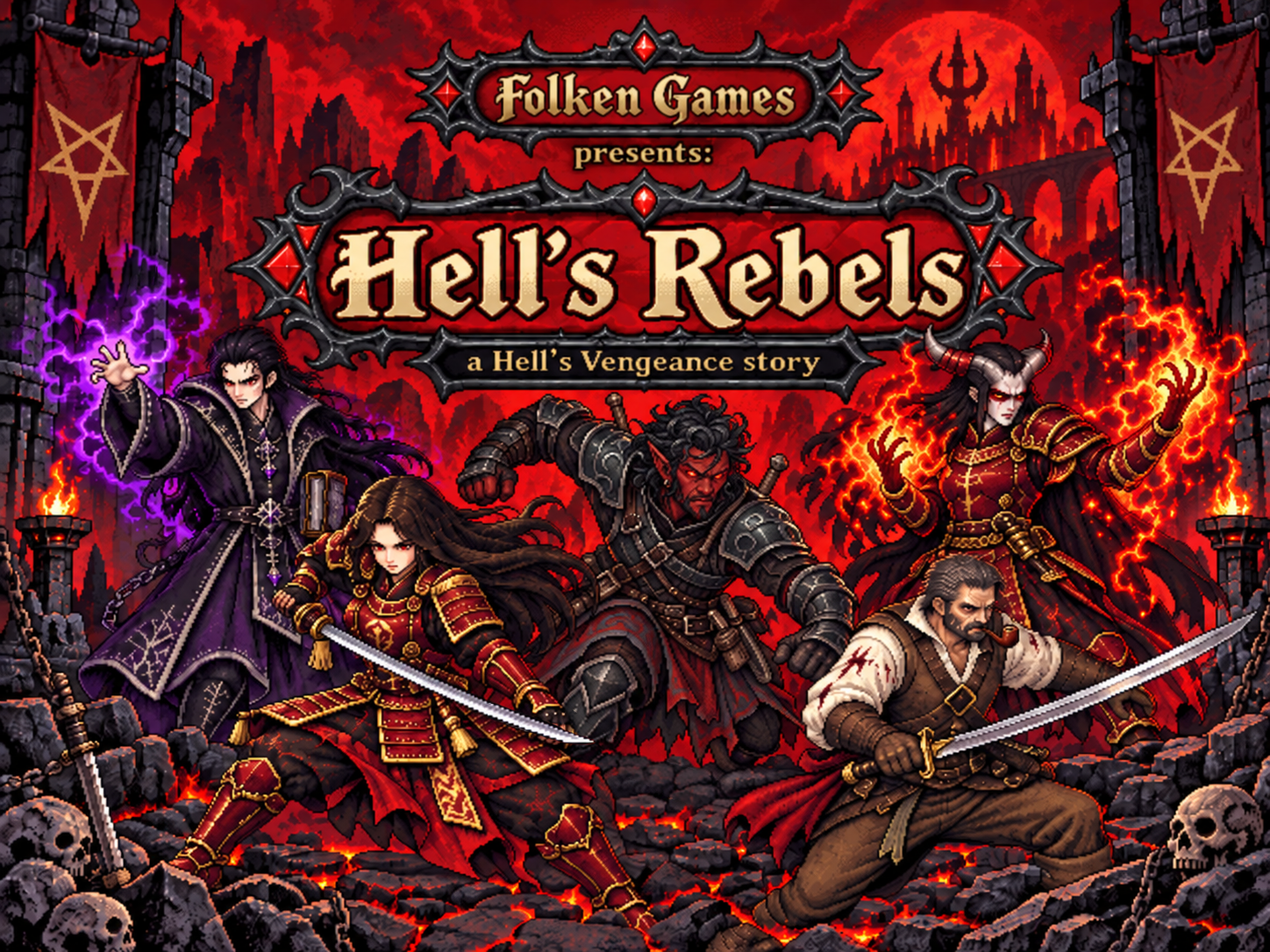
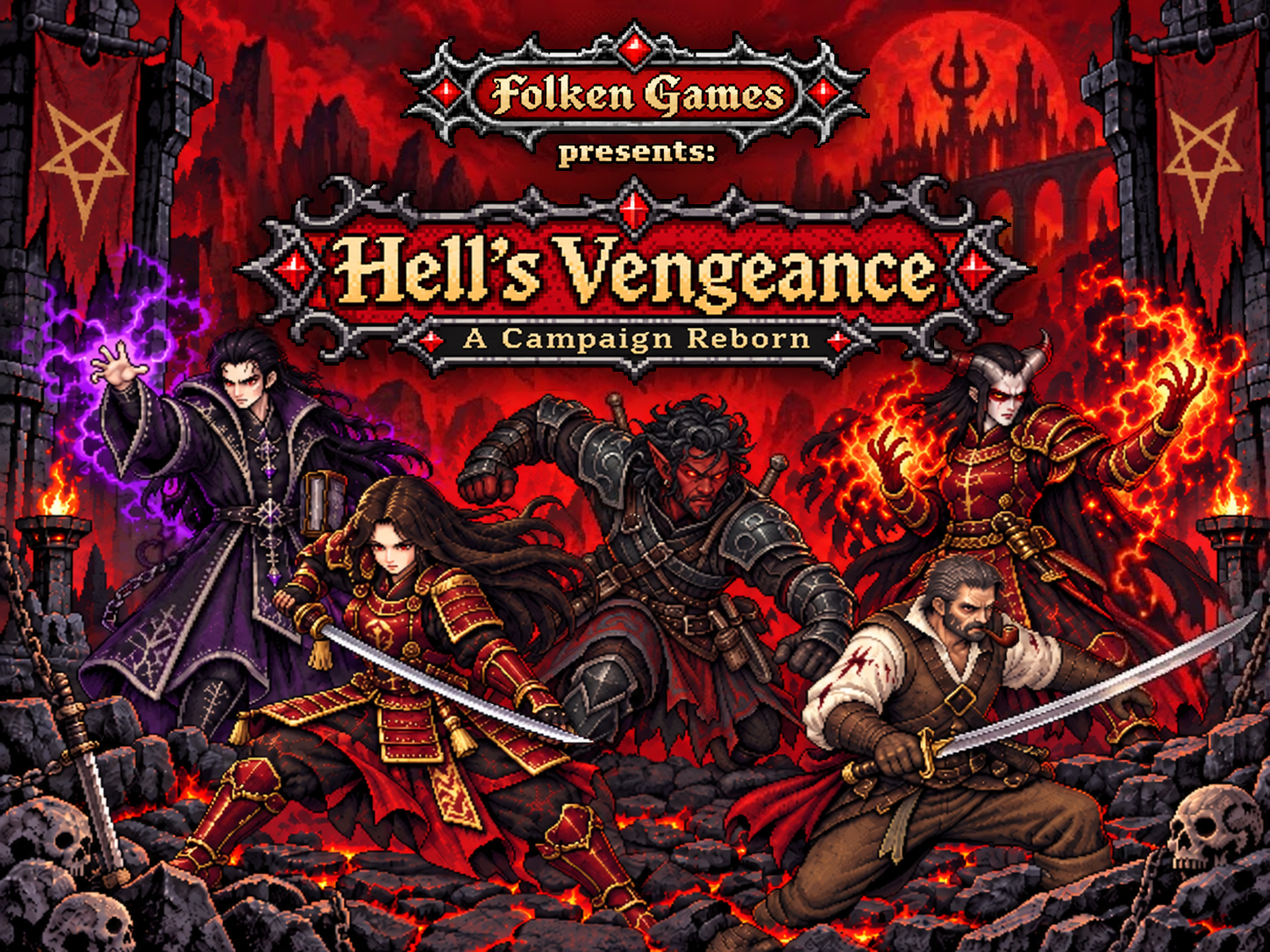
Refresh title screen and animate campaign transitions

diff --git a/index.html b/index.html
@@ -1,4 +1,4 @@
-<!doctype html><html lang="en"><head><meta charset="utf-8"><meta name="viewport" content="width=device-width,initial-scale=1"><title>Hell’s Rebels · Night of Ashes</title>
+<!doctype html><html lang="en"><head><meta charset="utf-8"><meta name="viewport" content="width=device-width,initial-scale=1"><title>Hell’s Vengeance · Night of Ashes</title>
 <script>
  if (new URLSearchParams(location.search).get('handheld') === '1') {
   document.documentElement.classList.add('handheld-display');
@@ -136,7 +136,7 @@ body.inventory-roll #dice-panel{z-index:35}
 #enemy-intents .turn-next{color:#bdb49f;border-bottom:1px solid #6a503d;margin-bottom:.3cqw}
 @keyframes initiative-flash{from{opacity:.15;filter:brightness(1.7)}to{opacity:1;filter:brightness(1)}}
 @media(prefers-reduced-motion:reduce){#initiative-results li{animation:none}}
-</style><link rel="stylesheet" href="art-test/menu-theme.css"><link rel="stylesheet" href="art-test/presentation-polish.css"></head><body><main><header><div><p class="eyebrow">HELL’S REBELS</p><h1 id="location-name">Night of Ashes</h1><p id="objective">Loading the chapter…</p></div><p id="story-section">Prologue · Kintargo</p></header><div class="stage"><canvas id="game" width="640" height="480" tabindex="0" aria-label="Game world. Use arrow keys or WASD to move and E to interact."></canvas><section id="title-screen" aria-label="Hell’s Rebels title screen" hidden><button id="title-push">Push A to Start</button><section id="title-menu" aria-labelledby="title-menu-heading" hidden><h2 id="title-menu-heading">Main menu</h2><p id="title-detail" hidden></p><div id="title-options"></div></section></section><section id="dice-panel" aria-label="Dice rolls" role="status" aria-live="polite" hidden><div id="dice-label"></div><div id="dice-tray" aria-hidden="true"></div><div id="dice-result"></div></section><aside id="quest-task" aria-label="Current task"><span>Current task</span><div id="quest-task-text"></div></aside><div id="prompt" hidden></div><section id="dialog" role="dialog" aria-modal="true" aria-labelledby="speaker" aria-describedby="line" hidden><canvas id="portrait" width="96" height="96" aria-label="Speaker portrait" hidden></canvas><div class="dialog-copy"><div id="speaker"></div><div id="line"></div></div><div id="choices"></div><button id="close">Continue ↵</button></section><aside id="enemy-intents" aria-label="Enemy intentions" role="status" hidden></aside><section id="initiative-reveal" role="dialog" aria-modal="true" aria-labelledby="initiative-heading" hidden><h2 id="initiative-heading">Battle order</h2><p class="initiative-note">D20 + initiative · highest acts first</p><ol id="initiative-results"></ol><p class="initiative-note">Provisional early-campaign modifiers</p><button id="initiative-start">Skip reveal · Enter / E</button></section><section id="battle" aria-label="Combat command dock" hidden><div class="battle-head"><div id="battle-title"></div><select id="combat-target" aria-label="Enemy target"></select><button id="heal-target" title="Cycle healing target (H)">Aid: Freya</button></div><div class="battle-bottom"><div class="battle-dispatch"><div id="battle-message" role="status">Choose a command.</div><div id="combat-log" role="log" aria-label="Last two combat actions"></div></div><div id="actions" aria-label="Combat actions"></div></div></section><section id="intro" aria-label="Choose your character" hidden><div class="intro-heading"><span>HELL’S REBELS</span><h2>Choose your character</h2></div><div class="intro-main"><canvas id="intro-art" width="440" height="540" aria-label="Selected character artwork"></canvas><div class="intro-description"><p id="intro-role"></p><h3 id="intro-name"></h3><p id="intro-bio"></p><p id="intro-ability"></p><button id="intro-start">Accept the mission</button><button id="intro-resume" hidden>Continue checkpoint</button><button id="intro-import">Import save</button></div></div><div id="intro-roster" aria-label="Party characters"></div><p class="intro-help">← → / A D Choose · ↑ ↓ Start/Continue · E Confirm · B Back</p></section><section id="journey" role="dialog" aria-modal="true" aria-labelledby="journey-title" aria-describedby="journey-summary" hidden><div class="journey-card"><p class="eyebrow">HELL’S REBELS · THE JOURNEY</p><h2 id="journey-title"></h2><p id="journey-summary"></p><button id="journey-continue" disabled>Continue ↵</button></div></section><section id="level-up" role="dialog" aria-modal="true" aria-labelledby="level-title" aria-describedby="level-description" hidden><p class="eyebrow">ASH HOUSE · A HARD-EARNED REST</p><h2 id="level-title">The party reaches level 2</h2><p id="level-description">Stronger, steadier, ready for the next assignment.</p><div id="level-rows"></div><p class="level-footnote">Health and skills restored. El Guapo is away.</p><button id="level-continue">Continue ↵</button></section><button id="pause-toggle" aria-label="Pause menu">Menu · B</button><section id="pause-panel" role="dialog" aria-modal="true" aria-labelledby="pause-title" hidden><h2 id="pause-title">Pause</h2><div id="pause-body"><canvas id="pause-portrait" width="160" height="200" aria-label="Character portrait" hidden></canvas><canvas id="pause-plan-map" width="640" height="400" role="img" hidden></canvas><div id="pause-options"></div><div id="pause-details" hidden></div></div><p id="pause-help"></p></section><div id="loading"><p id="loadingText">Gathering the party…</p><button id="load-retry" hidden>Retry loading</button></div></div><div id="party" class="party" aria-label="Party health and conversations"></div><div class="toolbar"><label>Leader <select id="character"><option value="freya">Freya</option><option value="jamal">J’Mal</option><option value="jason">Jason</option><option value="draymus">Draymus</option><option value="guapo">El Guapo</option><option value="reese" disabled>Reese</option></select></label><button id="paths" aria-pressed="false">Show paths</button><button id="retry">Load checkpoint</button><button id="reset">Restart chapter</button><label>Find replay <input id="section-search" type="search" placeholder="Number, scene, or location" autocomplete="off" aria-controls="section-replay" aria-describedby="section-count"></label><label>Replay section <select id="section-replay" aria-label="Section to replay"></select></label><output id="section-count" aria-live="polite"></output><button id="section-go">Go to section</button><button id="section-restore" hidden>Return to prior progress</button><button id="save-export">Export save</button><button id="save-import">Import save</button><button id="save-restore" hidden>Restore previous save</button><input id="save-import-file" type="file" accept=".json,application/json" hidden></div><div class="touch" aria-label="Touch controls"><button data-dir="left" aria-label="Move left">←</button><button data-dir="up" aria-label="Move up">↑</button><button data-dir="down" aria-label="Move down">↓</button><button data-dir="right" aria-label="Move right">→</button><button id="interact">Interact</button></div><p id="status"></p><p id="save-file-status" role="status" aria-live="polite"></p><dialog id="save-import-dialog" aria-labelledby="import-heading"><h2 id="import-heading">Import saved game</h2><p id="import-summary"></p><button id="import-confirm">Import and continue</button><button id="import-cancel">Cancel</button></dialog><footer><span id="save-status"></span><span><a href="Party Sprite Studio.html">Party sprites</a> · <a href="Map Layer Studio.html">Layered map preview</a> · <a href="Longacre Art Studio.html">Future chapter art (spoilers)</a> · <a href="Combat Animation Studio.html">Combat poses</a> · <a href="Political Movement Art Studio.html">Chapter Six art</a> · High detail pixel art chapter study</span></footer></main><script src="art-test/sprite-frames.js"></script><script src="art-test/chapter-npcs.js"></script><script src="art-test/questgiver-models.js"></script><script src="art-test/map-layers.js"></script><script src="art-test/scene-layers.js"></script><script src="art-test/next-npcs.js"></script><script src="art-test/next-chapter.js"></script><script src="art-test/future-npcs.js"></script><script src="art-test/next-arc.js"></script><script src="art-test/progression.js"></script><script src="art-test/inventory.js"></script><script src="art-test/save-files.js"></script><script src="art-test/combat-art-frames.js"></script><script src="art-test/combat-art.js"></script><script src="art-test/combat-idles.js"></script><script src="art-test/quest-guide.js"></script><script src="art-test/last-stand-chapter.js"></script>
+</style><link rel="stylesheet" href="art-test/menu-theme.css"><link rel="stylesheet" href="art-test/presentation-polish.css"></head><body><main><header><div><p class="eyebrow">HELL’S VENGEANCE</p><h1 id="location-name">Night of Ashes</h1><p id="objective">Loading the chapter…</p></div><p id="story-section">Prologue · Kintargo</p></header><div class="stage"><canvas id="game" width="640" height="480" tabindex="0" aria-label="Game world. Use arrow keys or WASD to move and E to interact."></canvas><section id="title-screen" aria-label="Hell’s Vengeance title screen" hidden><button id="title-push">Push A to Start</button><section id="title-menu" aria-labelledby="title-menu-heading" hidden><h2 id="title-menu-heading">Main menu</h2><p id="title-detail" hidden></p><div id="title-options"></div></section></section><section id="dice-panel" aria-label="Dice rolls" role="status" aria-live="polite" hidden><div id="dice-label"></div><div id="dice-tray" aria-hidden="true"></div><div id="dice-result"></div></section><aside id="quest-task" aria-label="Current task"><span>Current task</span><div id="quest-task-text"></div></aside><div id="prompt" hidden></div><section id="dialog" role="dialog" aria-modal="true" aria-labelledby="speaker" aria-describedby="line" hidden><canvas id="portrait" width="96" height="96" aria-label="Speaker portrait" hidden></canvas><div class="dialog-copy"><div id="speaker"></div><div id="line"></div></div><div id="choices"></div><button id="close">Continue ↵</button></section><aside id="enemy-intents" aria-label="Enemy intentions" role="status" hidden></aside><section id="initiative-reveal" role="dialog" aria-modal="true" aria-labelledby="initiative-heading" hidden><h2 id="initiative-heading">Battle order</h2><p class="initiative-note">D20 + initiative · highest acts first</p><ol id="initiative-results"></ol><p class="initiative-note">Provisional early-campaign modifiers</p><button id="initiative-start">Skip reveal · Enter / E</button></section><section id="battle" aria-label="Combat command dock" hidden><div class="battle-head"><div id="battle-title"></div><select id="combat-target" aria-label="Enemy target"></select><button id="heal-target" title="Cycle healing target (H)">Aid: Freya</button></div><div class="battle-bottom"><div class="battle-dispatch"><div id="battle-message" role="status">Choose a command.</div><div id="combat-log" role="log" aria-label="Last two combat actions"></div></div><div id="actions" aria-label="Combat actions"></div></div></section><section id="intro" aria-label="Choose your character" hidden><div class="intro-heading"><span>HELL’S VENGEANCE</span><h2>Choose your character</h2></div><div class="intro-main"><canvas id="intro-art" width="440" height="540" aria-label="Selected character artwork"></canvas><div class="intro-description"><p id="intro-role"></p><h3 id="intro-name"></h3><p id="intro-bio"></p><p id="intro-ability"></p><button id="intro-start">Accept the mission</button><button id="intro-resume" hidden>Continue checkpoint</button><button id="intro-import">Import save</button></div></div><div id="intro-roster" aria-label="Party characters"></div><p class="intro-help">← → / A D Choose · ↑ ↓ Start/Continue · E Confirm · B Back</p></section><section id="journey" role="dialog" aria-modal="true" aria-labelledby="journey-title" aria-describedby="journey-summary" hidden><div class="journey-card"><p class="eyebrow">HELL’S VENGEANCE · THE JOURNEY</p><h2 id="journey-title"></h2><p id="journey-summary"></p><button id="journey-continue" disabled>Continue ↵</button></div></section><section id="level-up" role="dialog" aria-modal="true" aria-labelledby="level-title" aria-describedby="level-description" hidden><p class="eyebrow">ASH HOUSE · A HARD-EARNED REST</p><h2 id="level-title">The party reaches level 2</h2><p id="level-description">Stronger, steadier, ready for the next assignment.</p><div id="level-rows"></div><p class="level-footnote">Health and skills restored. El Guapo is away.</p><button id="level-continue">Continue ↵</button></section><button id="pause-toggle" aria-label="Pause menu">Menu · B</button><section id="pause-panel" role="dialog" aria-modal="true" aria-labelledby="pause-title" hidden><h2 id="pause-title">Pause</h2><div id="pause-body"><canvas id="pause-portrait" width="160" height="200" aria-label="Character portrait" hidden></canvas><canvas id="pause-plan-map" width="640" height="400" role="img" hidden></canvas><div id="pause-options"></div><div id="pause-details" hidden></div></div><p id="pause-help"></p></section><div id="loading"><p id="loadingText">Gathering the party…</p><button id="load-retry" hidden>Retry loading</button></div></div><div id="party" class="party" aria-label="Party health and conversations"></div><div class="toolbar"><label>Leader <select id="character"><option value="freya">Freya</option><option value="jamal">J’Mal</option><option value="jason">Jason</option><option value="draymus">Draymus</option><option value="guapo">El Guapo</option><option value="reese" disabled>Reese</option></select></label><button id="paths" aria-pressed="false">Show paths</button><button id="retry">Load checkpoint</button><button id="reset">Restart chapter</button><label>Find replay <input id="section-search" type="search" placeholder="Number, scene, or location" autocomplete="off" aria-controls="section-replay" aria-describedby="section-count"></label><label>Replay section <select id="section-replay" aria-label="Section to replay"></select></label><output id="section-count" aria-live="polite"></output><button id="section-go">Go to section</button><button id="section-restore" hidden>Return to prior progress</button><button id="save-export">Export save</button><button id="save-import">Import save</button><button id="save-restore" hidden>Restore previous save</button><input id="save-import-file" type="file" accept=".json,application/json" hidden></div><div class="touch" aria-label="Touch controls"><button data-dir="left" aria-label="Move left">←</button><button data-dir="up" aria-label="Move up">↑</button><button data-dir="down" aria-label="Move down">↓</button><button data-dir="right" aria-label="Move right">→</button><button id="interact">Interact</button></div><p id="status"></p><p id="save-file-status" role="status" aria-live="polite"></p><dialog id="save-import-dialog" aria-labelledby="import-heading"><h2 id="import-heading">Import saved game</h2><p id="import-summary"></p><button id="import-confirm">Import and continue</button><button id="import-cancel">Cancel</button></dialog><footer><span id="save-status"></span><span><a href="Party Sprite Studio.html">Party sprites</a> · <a href="Map Layer Studio.html">Layered map preview</a> · <a href="Longacre Art Studio.html">Future chapter art (spoilers)</a> · <a href="Combat Animation Studio.html">Combat poses</a> · <a href="Political Movement Art Studio.html">Chapter Six art</a> · High detail pixel art chapter study</span></footer></main><script src="art-test/sprite-frames.js"></script><script src="art-test/chapter-npcs.js"></script><script src="art-test/questgiver-models.js"></script><script src="art-test/map-layers.js"></script><script src="art-test/scene-layers.js"></script><script src="art-test/next-npcs.js"></script><script src="art-test/next-chapter.js"></script><script src="art-test/future-npcs.js"></script><script src="art-test/next-arc.js"></script><script src="art-test/progression.js"></script><script src="art-test/inventory.js"></script><script src="art-test/save-files.js"></script><script src="art-test/combat-art-frames.js"></script><script src="art-test/combat-art.js"></script><script src="art-test/combat-idles.js"></script><script src="art-test/quest-guide.js"></script><script src="art-test/last-stand-chapter.js"></script>
 <script src="art-test/debts-rumors-chapter.js"></script><script src="art-test/movement-frames.js"></script><script src="art-test/political-movement.js"></script><script src="art-test/game-audio.js"></script><script src="art-test/game-input.js"></script><script src="art-test/chapter-map-preview.js"></script><script src="art-test/handheld-ui.js"></script><script src="art-test/lore-cast.js"></script><script src="art-test/jamal-frames-v3.js"></script><script src="art-test/title-screen.js"></script><script src="art-test/enemy-tactics.js"></script><script src="art-test/initiative.js"></script><script src="art-test/church-cast.js"></script><script src="art-test/church-assault.js"></script><script src="art-test/armory-cast.js"></script><script src="art-test/armory-jail-chapter.js"></script>
 <script src="art-test/fort-cast.js"></script>
 <script src="art-test/fort-estazano.js"></script><script src="art-test/court-cast.js"></script><script src="art-test/kantaria-cast.js"></script><script src="art-test/court-of-spears.js"></script><script src="art-test/kantaria-opening.js"></script><script src="art-test/kantaria-ops-cast.js"></script><script src="art-test/kantaria-disruption.js"></script><script src="art-test/kantaria-covert-cast.js"></script><script src="art-test/kantaria-covert.js"></script><script src="art-test/kantaria-supply-cast.js"></script><script src="art-test/kantaria-supply.js"></script><script src="art-test/valor-fastness.js"></script><script src="art-test/kantaria-aftermath.js"></script><script src="art-test/south-road.js"></script><script src="art-test/egorian-arrival.js"></script><script src="art-test/egorian-night.js"></script><script src="art-test/egorian-trial.js"></script><script src="art-test/egorian-mort.js"></script><script src="art-test/egorian-excruciation.js"></script><script src="art-test/senara-arrival.js"></script><script src="art-test/senara-cover.js"></script><script src="art-test/senara-daggers.js"></script><script src="art-test/senara-citadel.js"></script><script src="art-test/whisperwood-camp.js"></script><script src="art-test/whisperwood-glade.js"></script><script src="art-test/senara-wagon.js"></script><script src="art-test/senara-graveyard.js"></script><script src="art-test/fort-arego.js"></script><script src="art-test/inferno-gate.js"></script><script src="art-test/arego-ambush.js"></script><script src="art-test/arego-return.js"></script><script src="art-test/arego-exit.js"></script><script src="art-test/egorian-discharge.js"></script><script src="art-test/egorian-fountain.js"></script><script src="art-test/remesiana-market.js"></script><script src="art-test/hinji.js"></script><script src="art-test/westcrown.js"></script><script src="art-test/efisio-arc.js"></script><script src="art-test/egorian-sting.js"></script><script src="art-test/egorian-feud.js"></script><script src="art-test/sethic-farm.js"></script><script src="art-test/sethic-ledgers.js"></script><script src="art-test/nicolo-arc.js"></script><script src="art-test/pale-ball.js"></script><script src="art-test/belde.js"></script><script src="art-test/hinji-tavern.js"></script><script src="art-test/ballerina.js"></script><script src="art-test/rachikan.js"></script><script src="art-test/pezzack.js"></script><script src="art-test/bellflower-barge.js"></script><script src="art-test/bellflower-barn.js"></script><script src="art-test/sethic-mansion.js"></script><script src="art-test/vyre-wish.js"></script><script src="art-test/barrow-trail.js"></script><script src="art-test/barrow-covenant.js"></script><script src="art-test/menador.js"></script><script src="art-test/tathlum-hunt.js"></script><script src="art-test/darkrain.js"></script><script src="art-test/skadi-parley.js"></script><script src="art-test/molthune-coffin.js"></script><script src="art-test/dinyar-recon.js"></script><script src="art-test/ilnius-fountain.js"></script><script src="art-test/barleybridge-scout.js"></script><script src="art-test/presentation-polish.js"></script><script src="art-test/sprite-clean-rects.js"></script><script src="art-test/extra-citizen-frames.js"></script><script src="art-test/chapter-engine.js"></script></body></html>

diff --git a/art-test/chapter-engine.js b/art-test/chapter-engine.js
@@ -68,11 +68,17 @@ const JOURNEYS={
  scarlet_manor:'The household servant brings the party to Fex’s office. The Archbaron is waiting inside.'
 };
 function cancelJourney(){const resolve=journeyResolve;journeyResolve=null;journeyOpen=false;$('journey').hidden=true;$('journey').classList.remove('visible');$('journey-continue').disabled=true;if(resolve)resolve();}
-async function journeyCard(title,summary,commit=()=>{},illustration=null){
+async function journeyCard(title,summary,commit=()=>{},illustration=null,{outro=false}={}){
  const token=epoch,panel=$('journey'),button=$('journey-continue');journeyOpen=true;keys.clear();path=[];$('prompt').hidden=true;$('dice-panel').hidden=true;
  panel.classList.toggle('illustrated',!!illustration);
- panel.querySelector('.journey-card').style.backgroundImage=illustration
-  ? `linear-gradient(transparent 42%, #100d14eb 68%, #100d14), url("art-test/${illustration}")`
+ panel.classList.toggle('campaign-outro',outro);
+ panel.querySelector('.eyebrow').textContent=outro?'Folken Games presents':'HELL’S VENGEANCE · THE JOURNEY';
+ button.textContent=outro?'Return to main menu':'Continue ↵';
+ const gradient=outro?'transparent 72%, #100d14b0 81%, #100d14':'transparent 42%, #100d14eb 68%, #100d14';
+ const card=panel.querySelector('.journey-card');
+ PresentationPolish.setJourneyEffects(card,illustration);
+ card.style.backgroundImage=illustration
+  ? `linear-gradient(${gradient}), url("art-test/${illustration}")`
   : '';
  $('journey-title').textContent=title;$('journey-summary').textContent=panel.classList.contains('decree-page')?summary:summary.replace(/(?<!\bSt)([.!?])[ \t]+(?=[A-Z])/g,'$1\n');button.disabled=true;panel.hidden=false;panel.classList.add('visible');
  commit();button.disabled=false;panel.scrollIntoView({block:'start'});button.focus({preventScroll:true});await new Promise(resolve=>journeyResolve=resolve);if(token!==epoch)throw CANCEL;
@@ -80,6 +86,22 @@ async function journeyCard(title,summary,commit=()=>{},illustration=null){
  // Keep the black card covering the map until the next card, dialogue or end of the scene.
 }
 $('journey-continue').onclick=()=>{if(!journeyOpen||$('journey-continue').disabled||!journeyResolve)return;const resolve=journeyResolve;journeyResolve=null;$('journey-continue').disabled=true;resolve();};
+const JOURNEY_ART={
+ western_star:'transition-western-star-v1.png',
+ church_asmodeus:'church-ruins-v1.png',
+ court_lower:'court-platforms-v1.png',
+ fungus_shelter:'transition-uskwood-fire-v1.png',
+ fastness_hall:'transition-valors-fastness-v1.png',
+ egorian_bridge:'egorian-west-bridge-v1.png',
+ whisperwood_unicorn_glade:'whisperwood-unicorn-glade-v1.png',
+ arego_inferno_gate:'transition-inferno-gate-v1.png',
+ egorian_sting_hall:'transition-egorian-sting-v1.png',
+ egorian_pale_graveyard:'transition-night-of-the-pale-v1.png',
+ barrow_covenant:'transition-fourteenth-stone-v1.png',
+ darkrain_skull_slope:'darkrain-skull-v1.png',
+ nidal_arrival_court:'transition-split-missions-v1.png',
+ dinyar_bridge_ward:'dinyar-bridge-ward-v1.png'
+};
 async function travel(next,x,y,dir='up'){
  let summary=JOURNEYS[next];
  if(next==='western_star'&&quest.voyagePezzack)summary='The Western Star casts off from Pezzack. The crew keeps watch along the coast.';
@@ -92,7 +114,8 @@ async function travel(next,x,y,dir='up'){
  if(next==='ash_house'&&quest.chapter6)summary=!quest.ovinnikReported?'Bring the still-living gate guardian to Razelago. Learn what attacked the party.':'The party withdraws from the church standoff. Rest at Ash House before J’Mal’s evening watch.';
  if(next==='longacre_jail')summary=quest.chapter4?(quest.hillSearched?'Return with Riley after the unsuccessful hill search. Check on Bolgart in custody.':'Escort and question the prisoners at the jail.'):quest.rhonaDismissed?'Return to the jail, now staffed by retained deputies and replacement guards.':quest.decreesIssued?'Post the jail’s copy of the notices and deliver the party’s separate dismissal of Rhona.':'Visit the western gate and jail.';
  if(next==='longacre_square')summary=!quest.sermonDispersed?'The church square is gathering for Allamar’s sermon. Listen to her claims and counter the talk of rebellion.':quest.deputiesReported&&!quest.tavernNoticeTorn&&!quest.compactSworn?'After a quiet night at Ash House, the party crosses Longacre on its way to Scarlet Manor. Check the public notices along the way.':'Return to the square. '+QuestGuide.current().text;
- await journeyCard(scenes[next].name,summary,()=>setScene(next,x,y,dir));
+ const illustration=next==='arego_inferno_gate'&&quest.aregoGateSurveyed?null:JOURNEY_ART[next];
+ await journeyCard(scenes[next].name,summary,()=>setScene(next,x,y,dir),illustration);
 }
 function storySectionLabel(q,location){
  if(location==='guapo_party_boat')return 'Epilogue';
@@ -408,7 +431,7 @@ async function interact(requestedId=null){
 async function finishTempleEscape(){
  await journeyCard('The Silver Star · Fire and false evidence','The temple’s sacred protections are dismantled. After his warning about the fire, J’Mal is stabilized. His wounds are still too severe to walk; the party carries him out on a stretcher as the burning shop collapses part of the tunnels below.\n\nOn the way out, the party takes musical instruments from the shop above. They will fence the stolen goods far from Kintargo.');
  await journeyCard('Kintargo · Nox’s payment','Captain Freya returns with Dottari guards. Her military standing and family connections lend weight to her words. She makes a show of trying to fight the fire, and declares it an unfortunate accident.\n\nThe contractor, known to the party only as Nox, appears human: a woman carrying a fine glaive, with an unsettling power about her. She pays each member one hundred gold pieces and sends them to a safehouse.');
- await journeyCard('Kintargo · The safehouse','From a lavish safehouse balcony, the team watches three fires burn across the city. They lie low for nearly twenty-four hours.\n\nAfter resting, a covered wagon takes them to the docks, where The Western Star awaits.',()=>{for(const id of CORE)hp[id]=STATS[id].hp;setScene('street',600,184,'left');});
+ await journeyCard('Kintargo · The safehouse','From a lavish safehouse balcony, the team watches three fires burn across the city. They lie low for nearly twenty-four hours.\n\nAfter resting, a covered wagon takes them to the docks, where The Western Star awaits.',()=>{for(const id of CORE)hp[id]=STATS[id].hp;setScene('street',600,184,'left');},'transition-kintargo-safehouse-v1.png');
  await say('guapo','A pleasure cruiser? Now that is a proper escape.');quest.done=true;save();updateObjective();
 }
 async function templeStoryStrike(){

diff --git a/art-test/presentation-polish.css b/art-test/presentation-polish.css
@@ -80,3 +80,108 @@ body.is-combat #dialog{z-index:14}
 #journey.illustrated .eyebrow{margin-bottom:1.25cqw}
 #journey.illustrated #journey-title{margin-bottom:1.6cqw}
 #journey.illustrated #journey-summary{margin-bottom:2cqw}
+
+#journey.campaign-outro .journey-card{
+ padding-bottom:2cqw;
+ text-shadow:0 2px 3px #100d14,0 0 6px #100d14;
+}
+#journey.campaign-outro .eyebrow,
+#journey.campaign-outro #journey-title,
+#journey.campaign-outro #journey-summary{
+ margin:0 0 .5cqw;
+}
+#journey.campaign-outro #journey-summary{margin-bottom:1.2cqw;text-align:center}
+
+/* Light overlays are aligned to the 4:3 banquet illustration. */
+#journey.campaign-outro .journey-card{position:relative;isolation:isolate}
+#journey.campaign-outro .journey-card::before,
+#journey.campaign-outro .journey-card::after{
+ content:"";
+ position:absolute;
+ pointer-events:none;
+ z-index:-1;
+}
+#journey.campaign-outro .journey-card::before{
+ inset:0;
+ background:
+  radial-gradient(ellipse 2.7% 4.2% at 10.3% 15.5%,#ffad42b0,transparent),
+  radial-gradient(ellipse 3% 4.3% at 17.3% 15.4%,#ffc164a0,transparent),
+  radial-gradient(ellipse 3% 4.5% at 79.1% 16%,#ffb454c0,transparent);
+ mix-blend-mode:screen;
+ animation:banquet-lanterns 4.7s linear infinite;
+}
+#journey.campaign-outro .journey-card::after{
+ left:88.5%;top:20.7%;width:7%;height:7.2%;
+ background:
+  radial-gradient(ellipse 38% 4% at 48% 16%,#fff1bd9c,transparent),
+  radial-gradient(ellipse 23% 4% at 55% 32%,#ffeab5b8,transparent),
+  radial-gradient(ellipse 35% 4% at 41% 51%,#fff1bd9c,transparent),
+  radial-gradient(ellipse 20% 4% at 57% 68%,#ffeab59c,transparent),
+  radial-gradient(ellipse 39% 4% at 49% 88%,#ffeab57d,transparent);
+ mix-blend-mode:screen;
+ animation:banquet-moonlight 5.8s ease-in-out infinite;
+}
+@keyframes banquet-lanterns{
+ 0%,100%{opacity:.12}
+ 18%{opacity:.29}
+ 31%{opacity:.17}
+ 44%{opacity:.33}
+ 58%{opacity:.20}
+ 64%{opacity:.26}
+ 82%{opacity:.14}
+}
+@keyframes banquet-moonlight{
+ 0%,100%{opacity:.14;transform:translateX(-5%)}
+ 38%{opacity:.52;transform:translateX(6%)}
+ 64%{opacity:.23;transform:translateX(2%)}
+}
+@media(prefers-reduced-motion:reduce){
+ #journey.campaign-outro .journey-card::before,
+ #journey.campaign-outro .journey-card::after{animation:none;opacity:0}
+}
+
+#journey.illustrated .journey-card{position:relative;isolation:isolate;overflow:hidden}
+.journey-effects{
+ position:absolute;
+ z-index:-1;
+ pointer-events:none;
+ top:50%;
+ left:50%;
+ height:100%;
+ aspect-ratio:var(--art-aspect);
+ transform:translate(-50%,-50%);
+ mask-image:linear-gradient(#000 42%,#0002 68%,transparent);
+ mix-blend-mode:screen;
+}
+.journey-effects span{position:absolute}
+.journey-light{
+ background:radial-gradient(ellipse,#ffb04da8,transparent 70%);
+ animation:journey-flicker 4s linear infinite;
+}
+.journey-light.violet{background:radial-gradient(ellipse,#bd78ffaa,transparent 70%)}
+.journey-water{
+ background:
+  radial-gradient(ellipse 35% 5% at 43% 24%,#cceaff85,transparent),
+  radial-gradient(ellipse 26% 4% at 62% 42%,#b9e1ff80,transparent),
+  radial-gradient(ellipse 35% 6% at 39% 62%,#c5edff7c,transparent),
+  radial-gradient(ellipse 19% 5% at 54% 79%,#d6edff91,transparent);
+ animation:journey-shimmer 6s ease-in-out infinite;
+}
+@keyframes journey-flicker{
+ 0%,100%{opacity:.09}
+ 19%{opacity:.29}
+ 31%{opacity:.16}
+ 47%{opacity:.36}
+ 58%{opacity:.22}
+ 69%{opacity:.32}
+ 85%{opacity:.14}
+}
+@keyframes journey-shimmer{
+ 0%,100%{opacity:.12;transform:translateX(-5%)}
+ 44%{opacity:.55;transform:translateX(6%)}
+ 69%{opacity:.25;transform:translateX(1%)}
+}
+@media(prefers-reduced-motion:reduce){
+ .journey-effects{display:none}
+ .journey-effects span{animation:none}
+}

diff --git a/art-test/presentation-polish.js b/art-test/presentation-polish.js
@@ -93,5 +93,50 @@ window.PresentationPolish=(()=>{
   }
   g.restore();
  }
- return {worldFire,draw,paintDice,phase,install,load,citizenMeta,citizenPortrait,captive,captivePoints,banter,decree,hospiceLetter,world,smoke};
+
+ // Positions and radii are percentages of the source illustration.
+ const journeyEffects={
+  'transition-western-star-v1.png':{lights:[[5,12,5,11]]},
+  'church-ruins-v1.png':{aspect:1585/992,lights:[[17,46,3,7],[29,42,3,6],[57,43,3,6],[74,43,3,6],[86,48,3,6]]},
+  'court-platforms-v1.png':{aspect:1586/992,lights:[[29,33,2,5],[48,30,2,5],[56,31,2,5],[72,35,2,5]]},
+  'transition-uskwood-fire-v1.png':{lights:[[25,16,13,17],[46,24,15,16]]},
+  'transition-valors-fastness-v1.png':{lights:[[68,32,10,12]]},
+  'egorian-west-bridge-v1.png':{aspect:1586/992,lights:[[39,26,3,7],[61,26,3,7]]},
+  'whisperwood-unicorn-glade-v1.png':{aspect:1586/992,water:[[88,10,3,4],[82,24,4,5],[85,40,4,5],[79,58,4,5]]},
+  'transition-inferno-gate-v1.png':{lights:[[15,40,4,7],[49,40,19,19],[87,40,4,7]]},
+  'transition-egorian-sting-v1.png':{lights:[[11,14,4,8],[16,17,4,8],[20,15,3,7]]},
+  'transition-night-of-the-pale-v1.png':{lights:[[19,32,7,11],[38,38,4,7],[81,40,4,7]]},
+  'transition-fourteenth-stone-v1.png':{lights:[[40,46,3,5],[52,50,3,5],[66,46,3,5]]},
+  'transition-split-missions-v1.png':{lights:[[12,36,6,10,'violet'],[31,30,6,12,'violet']]},
+  'dinyar-bridge-ward-v1.png':{aspect:1585/992,lights:[[16,58,3,7],[43,47,3,6],[58,47,3,6],[86,61,3,7]]},
+  'transition-kintargo-safehouse-v1.png':{lights:[[31,33,7,8],[51,34,8,9],[73,40,6,8]]},
+  'transition-pezzack-manse-v1.png':{lights:[[27,42,9,12],[53,27,12,16],[74,16,15,16]]},
+  'transition-dusk-square-v1.png':{lights:[[11,39,4,8],[28,43,4,6],[79,44,4,7]]},
+  'menador-twins-v1.png':{lights:[[5,28,4,8]]}
+ };
+ function setJourneyEffects(card,illustration){
+  card.querySelector('.journey-effects')?.remove();
+  const effects=journeyEffects[illustration];
+  if(!effects)return;
+  const layer=document.createElement('div');
+  layer.className='journey-effects';
+  layer.setAttribute('aria-hidden','true');
+  layer.style.setProperty('--art-aspect',effects.aspect??4/3);
+  for(const kind of ['lights','water']){
+   for(const [index,[x,y,rx,ry,tint]] of (effects[kind]??[]).entries()){
+    const patch=document.createElement('span');
+    patch.className=kind==='lights'?'journey-light':'journey-water';
+    if(tint)patch.classList.add(tint);
+    patch.style.left=(x-rx)+'%';
+    patch.style.top=(y-ry)+'%';
+    patch.style.width=(rx*2)+'%';
+    patch.style.height=(ry*2)+'%';
+    patch.style.animationDelay=(-index*1.17)+'s';
+    patch.style.animationDuration=((kind==='lights'?3.9:6.4)+index*.43)+'s';
+    layer.append(patch);
+   }
+  }
+  card.prepend(layer);
+ }
+ return {setJourneyEffects,worldFire,draw,paintDice,phase,install,load,citizenMeta,citizenPortrait,captive,captivePoints,banter,decree,hospiceLetter,world,smoke};
 })();

diff --git a/art-test/barleybridge-scout.js b/art-test/barleybridge-scout.js
@@ -2,7 +2,7 @@
 
 window.BarleybridgeScout=(()=>{
  const temple='ilnius_inner_temple',approach='barleybridge_approach',image='barleybridge-approach-v1.png';
- const boat='guapo_party_boat',boatArt='guapo-party-boat-v1.png';
+ const boat='guapo_party_boat',boatArt='guapo-party-boat-v1.png',outroArt='guapo-banquet-outro-v1.png';
  const planNotes=[
   ['Tathlum Plan · Barleybridge','El Guapo has scouted the approach. The plan called for the blood of slain innocents to anoint Parnoneryx’s head. The outcome at Barleybridge remains unknown.'],
   ['Tathlum Plan · Warlock Island','After St. Ilnius, an ancient library is named as the last component. The target is the Archive of Redacted Histories. The company intends to burn it and apply its ashes to the dragon’s head.'],
@@ -48,7 +48,7 @@ window.BarleybridgeScout=(()=>{
   JOURNEYS[approach]='El Guapo has gone ahead to Barleybridge. The company expects limited paladin presence, and the scout is to find out what the approach looks like.';
  }
  async function load(loader){
-  await Promise.all([[approach,image],[boat,boatArt]].map(async ([id,source])=>{art[id]=await loader(source);}));
+  await Promise.all([loader(outroArt),...[[approach,image],[boat,boatArt]].map(async ([id,source])=>{art[id]=await loader(source);})]);
  }
  function mapImage(){return scene===approach||scene===boat?art[scene]:null;}
  function roster(){
@@ -89,7 +89,7 @@ window.BarleybridgeScout=(()=>{
     quest.barleybridgeScoutComplete=true;
     break;
    case 'barleybridgePlan':
-    for(const [title,summary] of planNotes)await journeyCard(title,summary,()=>{});
+    for(const [title,summary] of planNotes)await journeyCard(title,summary,undefined,'transition-tathlum-plans-v1.png');
     quest.barleybridgePlanReviewed=true;
     break;
    case 'guapoInvite':
@@ -98,9 +98,12 @@ window.BarleybridgeScout=(()=>{
     break;
    case 'guapoBanquet':
     await say('guapo','To the company. If anyone asks, those balloons were already like that.');
-    await journeyCard('To be continued…','You’ve reached the end of the recorded campaign. The rest of the Tathlum plan is still in your journal and planning maps.');
+    await journeyCard('To be continued…','You’ve reached the end of the recorded campaign for now. The rest of the Tathlum plan is still in your journal and planning maps. Tonight, El Guapo is buying.');
+    await journeyCard('Hell’s Vengeance','A Campaign Reborn',undefined,outroArt,{outro:true});
     quest.guapoBanquetComplete=true;
-    break;
+    save();
+    TitleScreen.show(true);
+    return true;
   }
   save();
   paintParty();

diff --git a/art-test/title-screen.js b/art-test/title-screen.js
@@ -67,7 +67,8 @@ const TitleScreen=(()=>{
   if(!mode||!poster)return false;
   g.save();g.imageSmoothingEnabled=false;g.drawImage(plain,0,0,640,480);
   // Keep the printed logos fixed while the underlying light sources flicker.
-  g.drawImage(poster,0,0,poster.width,poster.height*.43,0,0,640,480*.43);
+  const logoBand=.46;
+  g.drawImage(poster,0,0,poster.width,poster.height*logoBand,0,0,640,480*logoBand);
   if(!reduce.matches){
    g.globalCompositeOperation='screen';masks.forEach((m,i)=>{g.globalAlpha=.10+.075*Math.sin(t*(1.4+i*.12)+i*2)+.025*Math.sin(t*4+i);g.drawImage(m,0,0);});
    g.globalCompositeOperation='source-over';

diff --git a/art-test/pezzack.js b/art-test/pezzack.js
@@ -155,7 +155,7 @@ window.Pezzack=(()=>{
     if(token!==epoch)return false;
     quest.pezzackManseBurned=true;
     save();
-    await say('Chronicle','Bruce sweeps over the manse in the form of a blue dragon. Fire takes the building. The holding wing still stands.');
+    await journeyCard('Pezzack · Fire over the manse','Bruce sweeps over the manse in the form of a blue dragon. Fire takes the building. The holding wing still stands.',()=>{},'transition-pezzack-manse-v1.png');
     break;
    }
    case 'pezzackFreePrisoners':{

diff --git a/art-test/political-movement.js b/art-test/political-movement.js
@@ -235,7 +235,7 @@ window.PoliticalMovement=(()=>{
   await journeyCard('Longacre · Dusk in the Square','The party announces Bo Gramel’s execution for dusk. While the town gathers, workers raise a guillotine in the church square.',()=>{
    quest.boCaptured=true;
    setScene('execution_square',328,296);
-  });
+  },'transition-dusk-square-v1.png');
  }
  function drawArrest(g){
   if(scene!=='gramel_gate'||!arrestBeat||arrestBeat.epoch!==epoch||reduce.matches)return;
